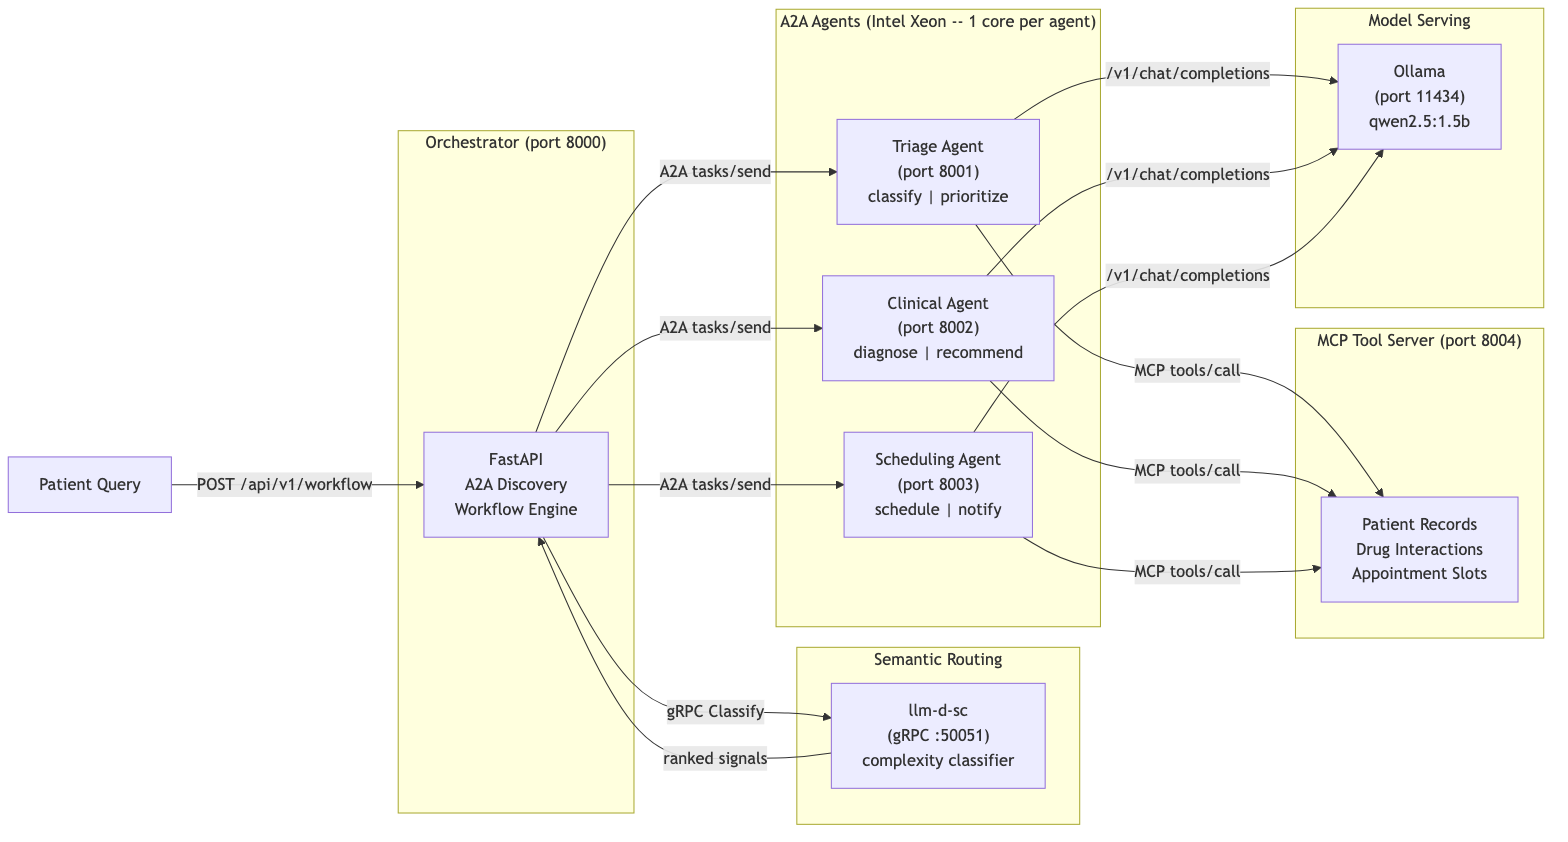
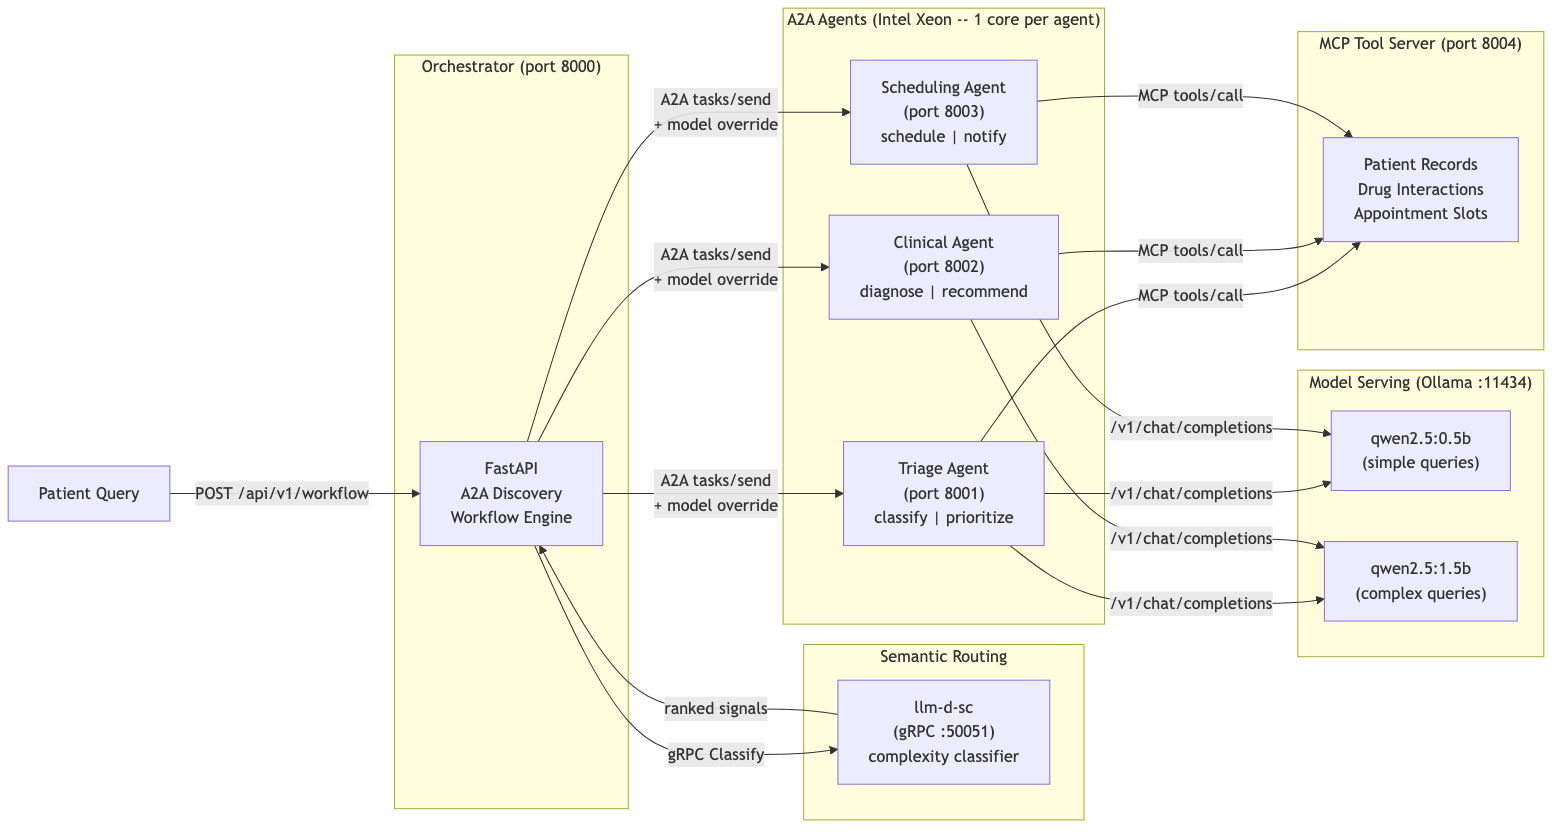
Update README for comprehensive agentic AI quickstart
Rewrite README to document all 5 agentic capabilities: A2A protocol,
semantic routing with dual-model selection, MCP tool calling, agent
auth, and observability. Update hardware requirements (6 cores, 12 GiB),
deploy instructions (demo.sh as primary, auth setup), validation
examples (lightweight vs comprehensive workflows, MCP health check),
repo structure (all new files), references (MCP spec), and architecture
diagram (MCP server, dual Ollama models, model override flow).

Changed region(s): [[0.0, 0.0, 1.0, 0.9928]]

diff --git a/README.md b/README.md
@@ -29,8 +29,9 @@ Healthcare providers need AI systems that can coordinate across specialties -- t
 ## Who is this for
 
 - **Healthcare IT architects** designing multi-agent platforms that coordinate across clinical departments without vendor lock-in.
-- **System integrators** building interoperable AI services that communicate through open protocols like A2A and JSON-RPC 2.0.
+- **System integrators** building interoperable AI services that communicate through open protocols like A2A, MCP, and JSON-RPC 2.0.
 - **DevOps teams** deploying cooperative AI agent workloads on Red Hat OpenShift AI with Intel Xeon processors for predictable, core-pinned performance.
+- **AI engineers** evaluating agentic patterns: semantic routing, tool calling, inter-agent authentication, and multi-model orchestration.
 
 ## Example use cases
 
@@ -45,9 +46,13 @@ Patient care coordination requires multiple specialized functions working togeth
 
 Each agent publishes a machine-readable agent card at `/.well-known/agent-card.json` describing its capabilities and skills. The orchestrator discovers agents automatically, maintains a live registry, and delegates tasks through JSON-RPC 2.0 calls. Before executing a workflow, the orchestrator sends the patient query to llm-d-sc -- a low-latency Rust semantic classifier from the llm-d project -- which ranks the query's complexity (SIMPLE, MEDIUM, COMPLEX, REASONING). The orchestrator uses this signal to select the workflow depth: simple queries route only to the scheduling agent, moderate queries add triage, and complex cases invoke the full triage-clinical-scheduling pipeline. When llm-d-sc is unavailable, the orchestrator falls back to the comprehensive workflow. Every step records measured latency for observability.
 
-The system runs on a local Ollama instance serving the Qwen 2.5 1.5B model for lightweight inference. Each agent is pinned to a dedicated Intel Xeon core for isolation and predictable performance. A demo mode is available for evaluation and development without LLM backends. All responses carry an AI disclaimer: agent responses are AI-generated -- verify clinical recommendations with qualified healthcare professionals.
+The system runs on a local Ollama instance serving two Qwen 2.5 models on Intel Xeon CPU: `qwen2.5:0.5b` for simple queries and `qwen2.5:1.5b` for complex cases. The semantic classifier selects the model tier alongside the workflow depth, so simple appointment requests use a fast lightweight model while complex clinical cases use the more capable one. Each agent is pinned to a dedicated Intel Xeon core for isolation and predictable performance.
 
-A Gradio UI provides three views: a patient workflow tab for running end-to-end triage queries with step-by-step latency reporting, an agent registry tab showing discovered agents and their capabilities, and a statistics tab with system health information.
+Agents call an MCP (Model Context Protocol) tool server during task processing. Three healthcare tools are available: patient record lookup, drug interaction checking, and appointment slot finding. When a query mentions medications, patient IDs, or scheduling, the relevant tools fire automatically and their results are woven into the agent's response. A bearer token authentication middleware secures inter-agent communication on the `/a2a` endpoint while keeping health checks and agent card discovery open for Kubernetes probes and A2A protocol compliance.
+
+A demo mode is available for evaluation and development without LLM backends. All responses carry an AI disclaimer: agent responses are AI-generated -- verify clinical recommendations with qualified healthcare professionals.
+
+A Gradio UI provides three views: a patient workflow tab for running end-to-end triage queries with semantic routing results and step-by-step latency reporting, an agent registry tab showing discovered agents and their capabilities, and a statistics tab with system health information.
 
 ![Screenshot of Multi-Agent Health Assistant UI](docs/images/screenshot.png)
 
@@ -71,19 +76,28 @@ flowchart LR
         SA["Scheduling Agent\n(port 8003)\nschedule | notify"]
     end
 
-    subgraph LLM["Model Serving"]
-        OL["Ollama\n(port 11434)\nqwen2.5:1.5b"]
+    subgraph Tools["MCP Tool Server (port 8004)"]
+        MCP["Patient Records\nDrug Interactions\nAppointment Slots"]
+    end
+
+    subgraph LLM["Model Serving (Ollama :11434)"]
+        SM["qwen2.5:0.5b\n(simple queries)"]
+        LM["qwen2.5:1.5b\n(complex queries)"]
     end
 
     Patient -->|"POST /api/v1/workflow"| ORC
     ORC -->|"gRPC Classify"| SC
     SC -->|"ranked signals"| ORC
-    ORC -->|"A2A tasks/send"| TA
-    ORC -->|"A2A tasks/send"| CA
-    ORC -->|"A2A tasks/send"| SA
-    TA -->|"/v1/chat/completions"| OL
-    CA -->|"/v1/chat/completions"| OL
-    SA -->|"/v1/chat/completions"| OL
+    ORC -->|"A2A tasks/send\n+ model override"| TA
+    ORC -->|"A2A tasks/send\n+ model override"| CA
+    ORC -->|"A2A tasks/send\n+ model override"| SA
+    TA -->|"MCP tools/call"| MCP
+    CA -->|"MCP tools/call"| MCP
+    SA -->|"MCP tools/call"| MCP
+    TA -->|"/v1/chat/completions"| SM
+    TA -->|"/v1/chat/completions"| LM
+    CA -->|"/v1/chat/completions"| LM
+    SA -->|"/v1/chat/completions"| SM
 ```
 
 ![Architecture diagram for multi-agent-health-assistant](docs/images/architecture.png)
@@ -92,9 +106,9 @@ flowchart LR
 
 ### Minimum hardware requirements
 
-- 4 CPU cores (Intel Xeon recommended -- 1 core per agent + 1 for orchestrator)
-- 8 GiB memory (4 GiB for Ollama model serving + 4 GiB for services)
-- 5 GiB storage (model weights + container images)
+- 6 CPU cores (Intel Xeon recommended -- 1 per agent + 1 orchestrator + 1 MCP server + 1 llm-d-sc)
+- 12 GiB memory (6 GiB for Ollama with 2 models + 4 GiB for services + 2 GiB for llm-d-sc)
+- 8 GiB storage (2 model weights + llm-d-sc classifier artifact + container images)
 
 ### Minimum software requirements
 
@@ -131,19 +145,29 @@ cp .env.example .env
 # Edit .env to set DEMO_MODE=true if you want demo responses without Ollama
 ```
 
-3. **Option A: Local development with Podman Compose**
+3. **Option A: Quick start with demo.sh** (recommended for first run)
+
+```bash
+./demo.sh
+# Automatically detects Ollama, pulls both models, starts all services
+# Open http://localhost:7860 for the Gradio UI (requires Python 3.10+)
+```
+
+4. **Option B: Local development with Podman Compose**
 
 ```bash
 podman compose up -d
-# Ollama will pull qwen2.5:1.5b on first start (this may take a few minutes)
+# Ollama will pull qwen2.5:0.5b and qwen2.5:1.5b on first start
+# llm-d-sc model artifacts are downloaded automatically
 # Verify all services are healthy
-curl http://localhost:8000/health
-curl http://localhost:8001/health
-curl http://localhost:8002/health
-curl http://localhost:8003/health
+curl http://localhost:8000/health   # Orchestrator
+curl http://localhost:8001/health   # Triage agent
+curl http://localhost:8002/health   # Clinical agent
+curl http://localhost:8003/health   # Scheduling agent
+curl http://localhost:8004/health   # MCP tool server
 ```
 
-4. **Option B: Deploy to OpenShift with Helm**
+5. **Option C: Deploy to OpenShift with Helm**
 
 Create an OpenShift project:
 
@@ -157,12 +181,13 @@ Install using Helm:
 helm install multi-agent-health-assistant chart/
 ```
 
-5. **Launch the Gradio UI** (optional):
+6. **Enable agent authentication** (optional):
 
 ```bash
-# Requires the orchestrator to be running
-ORCHESTRATOR_URL=http://localhost:8000 python src/ui.py
-# Open http://localhost:7860 in your browser
+# Set a shared token in .env or export before starting
+export AGENT_AUTH_TOKEN=my-secret-token
+# All inter-agent A2A calls will require this bearer token
+# Health and agent-card endpoints remain open for K8s probes
 ```
 
 ### Validating the deployment
@@ -172,15 +197,29 @@ ORCHESTRATOR_URL=http://localhost:8000 python src/ui.py
 oc get pods
 
 # Get the application URL
-echo "https://$(oc get route multi-agent-health-assistant -o jsonpath='{.spec.host}')"
+ROUTE_URL="https://$(oc get route multi-agent-health-assistant -o jsonpath='{.spec.host}')"
 
-# Discover agents
-curl https://<route-url>/api/v1/agents
+# Discover agents and check semantic routing status
+curl "$ROUTE_URL/health"
+curl "$ROUTE_URL/api/v1/agents"
 
-# Run a workflow
-curl -X POST https://<route-url>/api/v1/workflow \
+# Run a simple query (lightweight workflow -- scheduling only)
+curl -X POST "$ROUTE_URL/api/v1/workflow" \
   -H "Content-Type: application/json" \
-  -d '{"query": "Patient with chest pain and shortness of breath", "workflow_type": "patient_triage"}'
+  -d '{"query": "Schedule a follow-up appointment", "workflow_type": "lightweight"}'
+
+# Run a complex query (comprehensive workflow -- all 3 agents)
+curl -X POST "$ROUTE_URL/api/v1/workflow" \
+  -H "Content-Type: application/json" \
+  -d '{"query": "Patient with chest pain and shortness of breath", "workflow_type": "comprehensive"}'
+
+# Auto-route (let llm-d-sc decide workflow depth and model)
+curl -X POST "$ROUTE_URL/api/v1/workflow" \
+  -H "Content-Type: application/json" \
+  -d '{"query": "Check patient record PAT-001 and schedule appointment"}'
+
+# Verify MCP tools are available
+curl http://localhost:8004/health
 
 # Run Helm test
 helm test multi-agent-health-assistant
@@ -207,33 +246,43 @@ oc delete project multi-agent-health-assistant
 │   └── templates/
 │       ├── orchestrator-deployment.yaml
 │       ├── agent-deployments.yaml
+│       ├── mcp-server-deployment.yaml
 │       ├── semantic-router-deployment.yaml
 │       └── test-model-access.yaml
 ├── contracts/                # API contracts (OpenAPI)
 │   └── openapi/
-│       ├── orchestrator.yaml # Orchestrator API (discovery, workflow)
-│       └── agent.yaml        # Agent API (A2A protocol, JSON-RPC)
+│       ├── orchestrator.yaml # Orchestrator API (discovery, workflow, routing)
+│       ├── agent.yaml        # Agent API (A2A protocol, JSON-RPC)
+│       └── mcp.yaml          # MCP tool server API
 ├── docs/
 │   └── images/               # Architecture diagrams and screenshots
 │       ├── architecture.png
 │       └── screenshot.png
 ├── src/                      # Application source code
 │   ├── orchestrator.py       # FastAPI orchestrator with semantic routing
-│   ├── agent.py              # A2A-compliant agent template
+│   ├── agent.py              # A2A-compliant agent with MCP tool calling
 │   ├── models.py             # Pydantic models for A2A protocol
+│   ├── auth.py               # Bearer token auth middleware
+│   ├── mcp_server.py         # MCP tool server (patient records, drugs, scheduling)
 │   ├── ui.py                 # Gradio UI (patient workflow, registry, stats)
 │   ├── classify_pb2.py       # Generated gRPC stubs (llm-d-sc)
 │   ├── classify_pb2_grpc.py  # Generated gRPC client (llm-d-sc)
 │   ├── Containerfile         # Container image definition
 │   └── requirements.txt      # Python dependencies
-├── tests/                    # CDD -> TDD -> EDD validation
-│   ├── contracts/            # Stage 0: Contract compliance
-│   ├── unit/                 # Stage 2: Technique validation
+├── tests/                    # CDD -> TDD -> EDD validation (83 tests)
+│   ├── contracts/            # Stage 0: Contract compliance (15 tests)
+│   ├── unit/                 # Stage 2: Technique validation (39 tests)
 │   │   └── test_multi_agent.py
-│   ├── integration/          # Stage 3: End-to-end flow
-│   ├── benchmarks/           # Stage 4: Performance validation
-│   └── publication/          # Stage 5: README quality
-├── docker-compose.yml        # Local development stack (Ollama + 4 services)
+│   ├── integration/          # Stage 3: End-to-end flow (9 tests)
+│   │   └── test_end_to_end.py
+│   ├── benchmarks/           # Stage 4: Performance validation (6 tests)
+│   │   └── test_performance.py
+│   ├── publication/          # Stage 5: README quality (14 tests)
+│   ├── validation_matrix.yaml
+│   ├── claim_registry.yaml
+│   └── benchmark_rubric.yaml
+├── docker-compose.yml        # Local dev stack (Ollama + agents + MCP + llm-d-sc)
+├── demo.sh                   # One-command local demo launcher
 ├── Makefile                  # Test targets: make test-all
 ├── LICENSE
 └── README.md
@@ -243,7 +292,7 @@ oc delete project multi-agent-health-assistant
 
 - [A2A Protocol Specification](https://google.github.io/A2A/) -- Open protocol for agent-to-agent discovery, delegation, and task management.
 - [llm-d-sc Semantic Classifier](https://github.com/llm-d-incubation/llm-d-semantic-classifier) -- Low-latency Rust service for semantic classification of inference requests, part of the llm-d project.
-- [LangGraph Multi-Agent Patterns](https://langchain-ai.github.io/langgraph/) -- Framework for building stateful multi-agent applications with LLMs.
+- [Model Context Protocol (MCP)](https://modelcontextprotocol.io/) -- Open protocol for connecting AI models to external tools and data sources.
 - [Intel Xeon for Multi-Service Workloads](https://www.intel.com/content/www/us/en/products/details/processors/xeon.html) -- Core-per-agent isolation and predictable performance for AI services.
 - [Red Hat OpenShift AI Documentation](https://docs.redhat.com/en/documentation/red_hat_openshift_ai_self-managed/) -- Enterprise AI platform for deploying and managing AI workloads.
 - [FastAPI Documentation](https://fastapi.tiangolo.com/) -- High-performance Python web framework for building APIs.
@@ -253,7 +302,7 @@ oc delete project multi-agent-health-assistant
 ## Tags
 
 - **Title:** Coordinate AI agents to assist healthcare workflows
-- **Description:** Deploy cooperating AI agents that discover, classify, and delegate tasks to support clinical and administrative workflows.
+- **Description:** Deploy cooperating AI agents with semantic routing, MCP tool calling, and inter-agent auth to support clinical workflows.
 - **Industry:** Healthcare provider
 - **Product:** Red Hat OpenShift AI
 - **Use case:** AI inference
